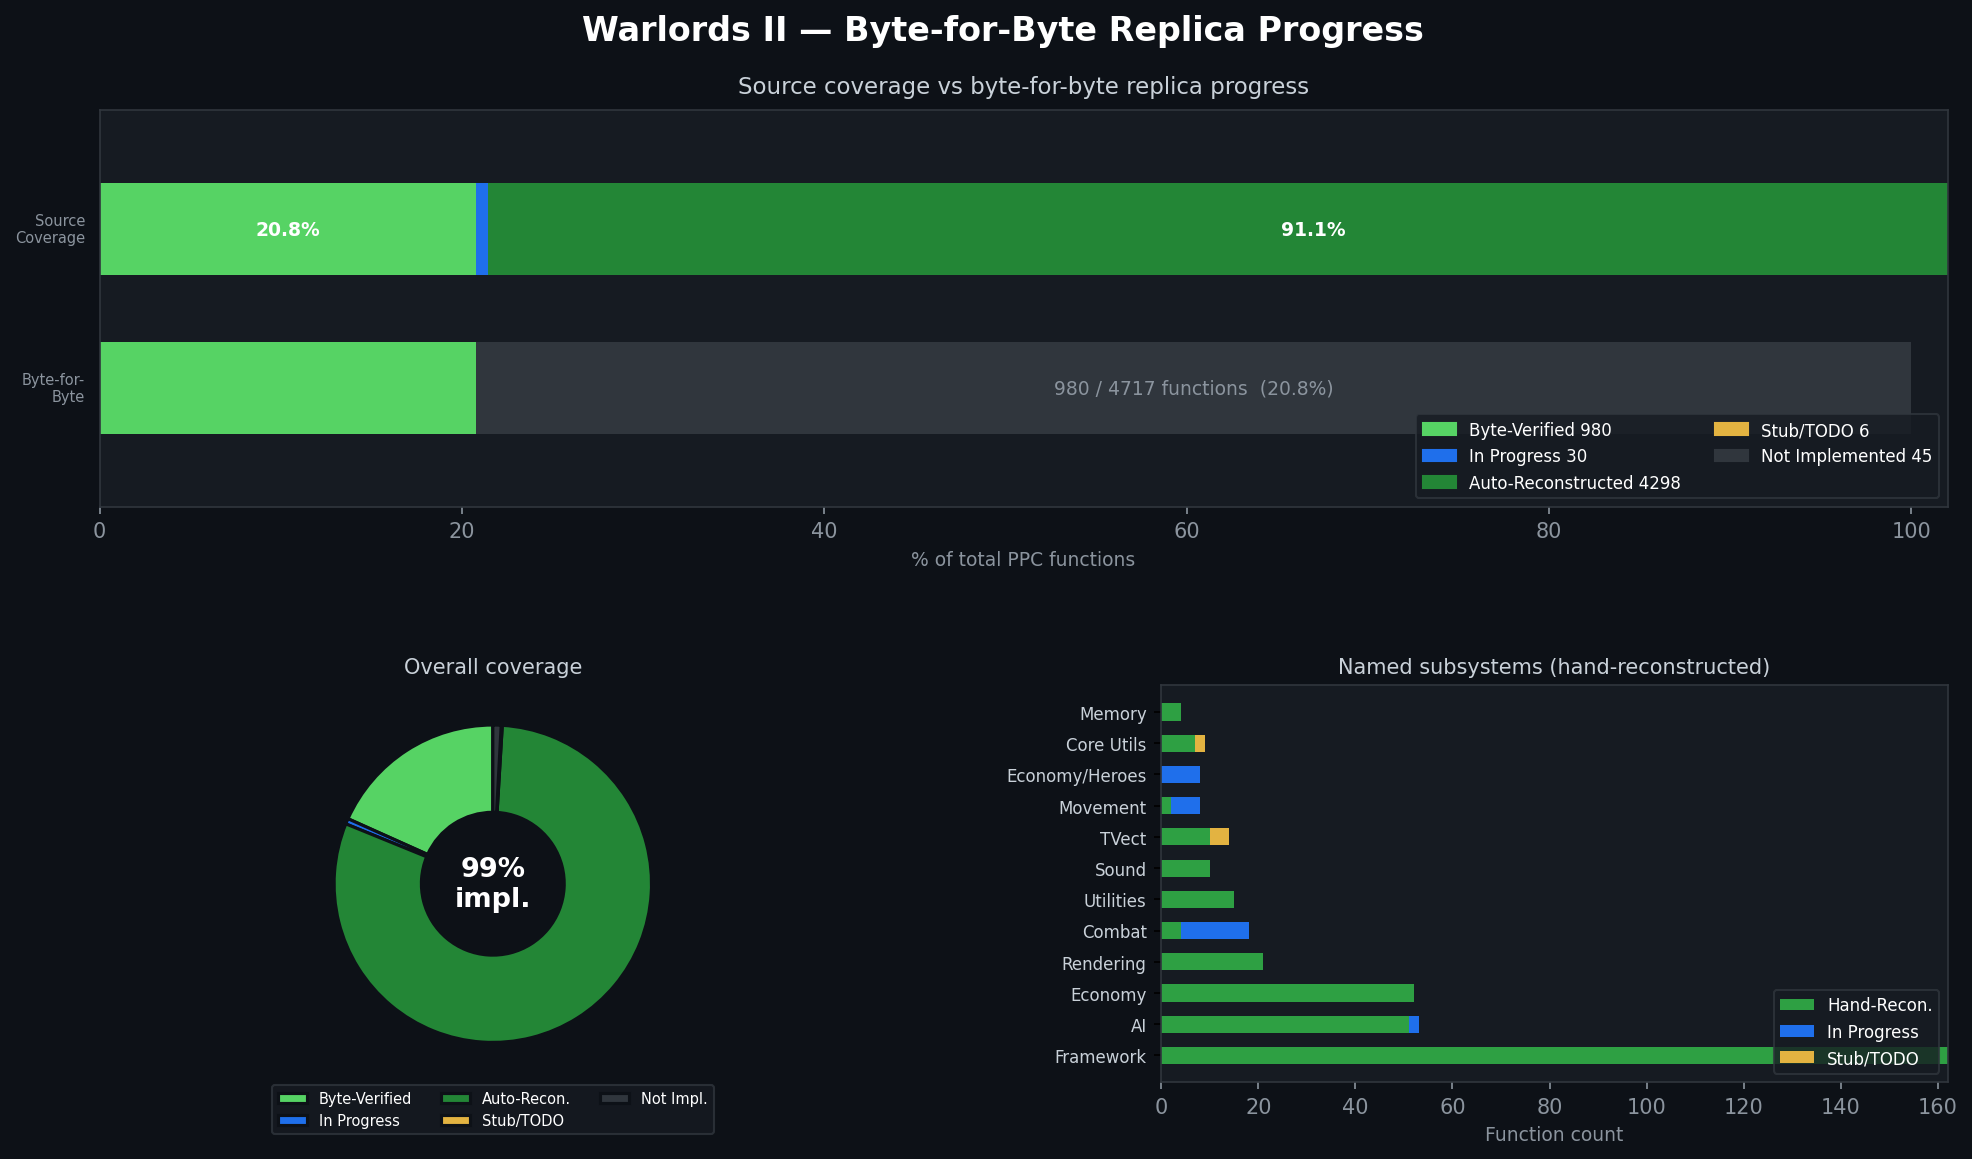
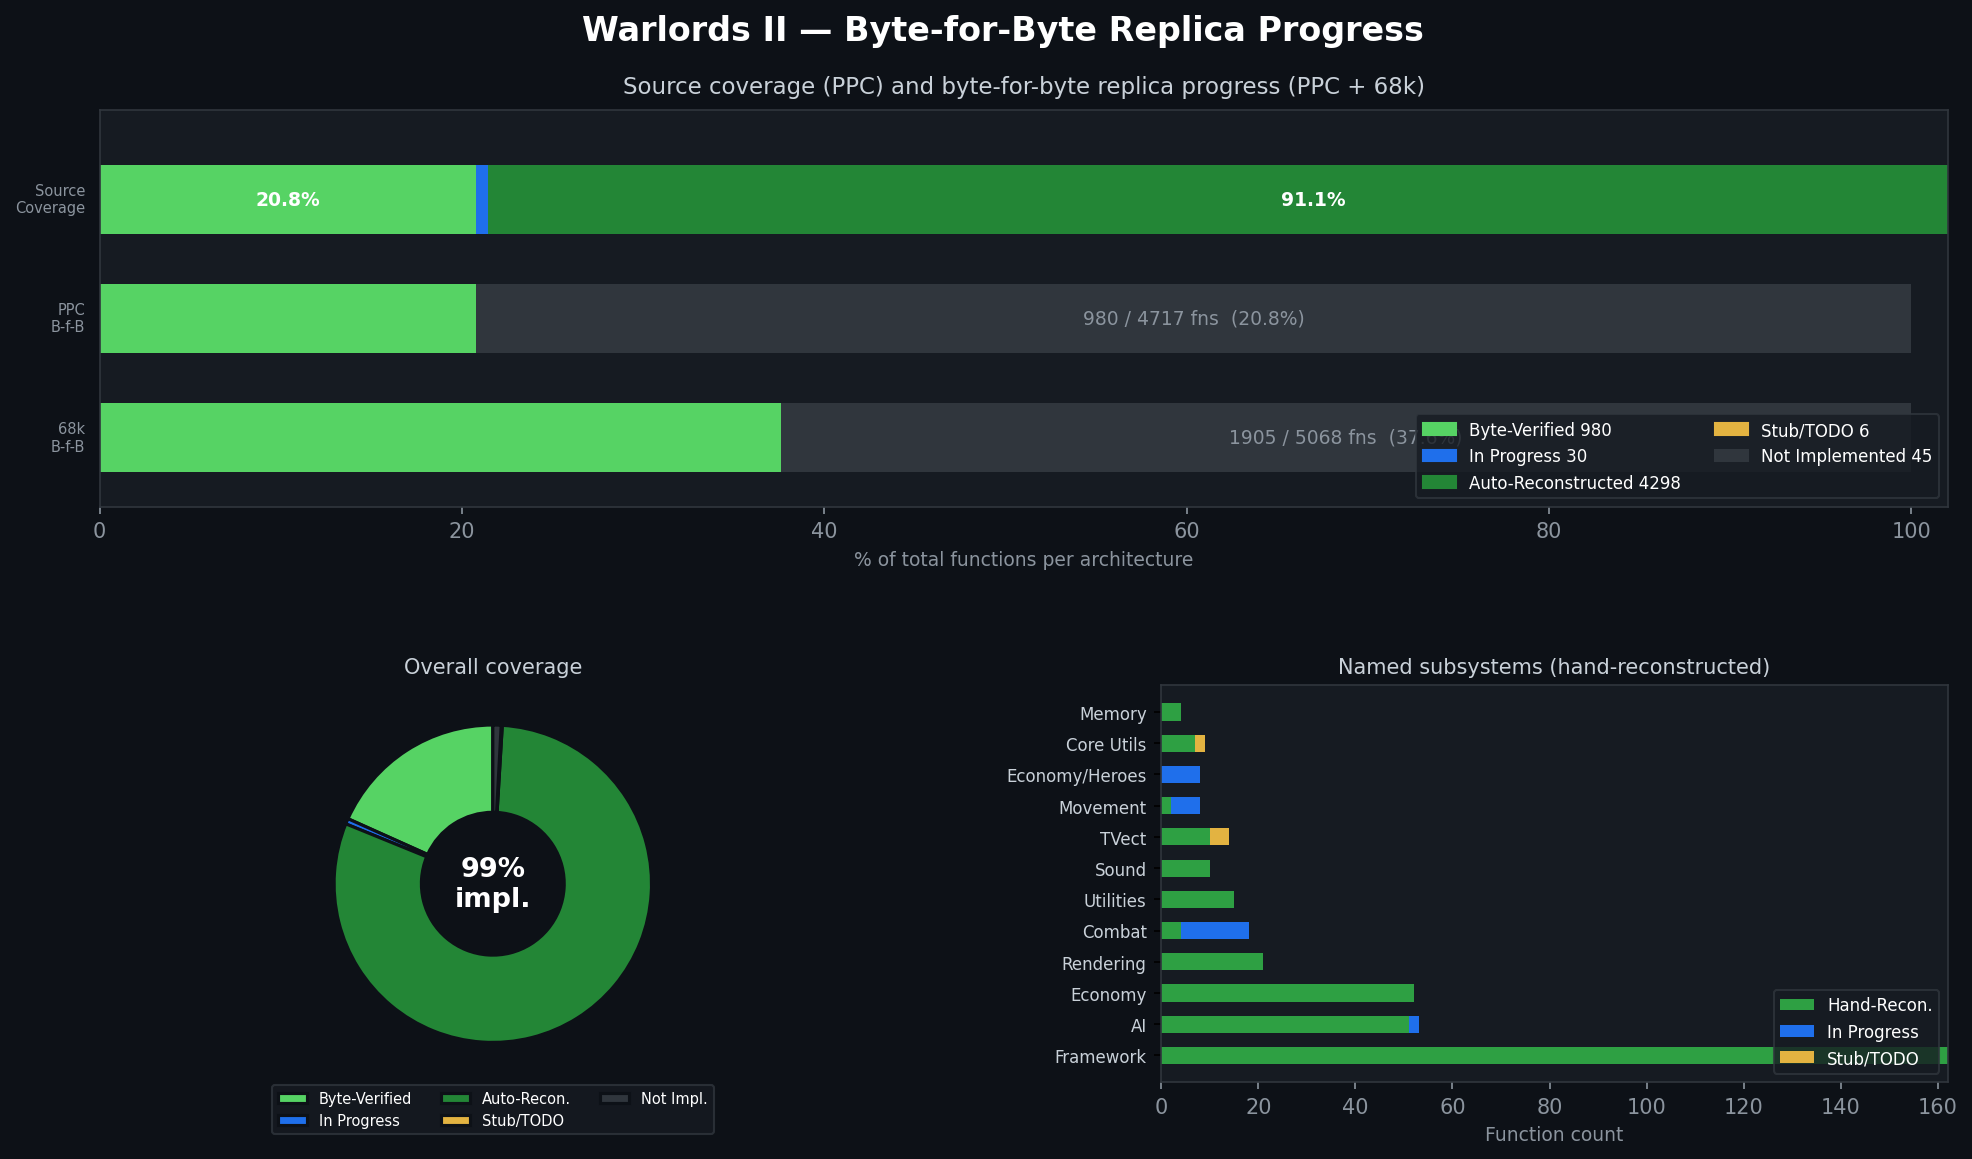
Document hard limits; add 68k B-f-B bar to progress chart
VERIFIED.md:
- Add concrete byte-level examples for each remaining hard limit:
  A) A-trap: show how a8d9 91c8 decodes as 4-byte EMAC 'msacw' in objdump
     vs correct 2-byte A-trap + separate subaw; explain the NOP-substitution fix
  B) Ghidra size over-count: detail both cases (FUN_C117 trailing zeros;
     FUN_C160 bleeding 4 bytes into next function)
  C) Full extension word: show original vs GAS byte diffs for the mode-bit mismatch
- Correct 68k total from ~18,000 (estimate) to 5,068 (actual from decompiled files)
  → 37.6% byte-verified (was ~10.6%)

gen_progress_chart.py:
- Count 68k functions from tools/68k_binary/decompiled/CODE_*.c
- Read tools/68k_verified_count.txt
- Add third bar at y=-0.9 showing 68k byte-for-byte progress
- Print 68k stats in console output

Changed region(s): [[0.0, 0.1242, 0.9899, 0.4349], [0.3093, 0.0621, 0.7115, 0.0932], [0.4331, 0.4659, 0.5877, 0.497]]

diff --git a/tools/gen_progress_chart.py b/tools/gen_progress_chart.py
@@ -17,12 +17,14 @@ import matplotlib.pyplot as plt
 import matplotlib.patches as mpatches
 import numpy as np
 
-REPO_ROOT      = os.path.dirname(os.path.dirname(os.path.abspath(__file__)))
-FUNCTION_MAP   = os.path.join(REPO_ROOT, "src", "FUNCTION_MAP.txt")
-PPC_DECOMPILED = os.path.join(REPO_ROOT, "tools", "ppc_decompiled")
-OUTPUT         = os.path.join(REPO_ROOT, "docs", "progress_chart.png")
+REPO_ROOT         = os.path.dirname(os.path.dirname(os.path.abspath(__file__)))
+FUNCTION_MAP      = os.path.join(REPO_ROOT, "src", "FUNCTION_MAP.txt")
+PPC_DECOMPILED    = os.path.join(REPO_ROOT, "tools", "ppc_decompiled")
+OUTPUT            = os.path.join(REPO_ROOT, "docs", "progress_chart.png")
 # Optional override file: one number on the first line = byte-verified count
-VERIFIED_FILE  = os.path.join(REPO_ROOT, "tools", "byte_verified_count.txt")
+VERIFIED_FILE     = os.path.join(REPO_ROOT, "tools", "byte_verified_count.txt")
+K68_VERIFIED_FILE = os.path.join(REPO_ROOT, "tools", "68k_verified_count.txt")
+K68_DEC_GLOB      = os.path.join(REPO_ROOT, "tools", "68k_binary", "decompiled", "CODE_*.c")
 
 # ── colours (GitHub dark/light friendly) ────────────────────────────────────
 C_VERIFIED = "#56d364"   # bright green  (byte-verified identical)
@@ -43,6 +45,18 @@ byte_verified = 0
 if os.path.exists(VERIFIED_FILE):
     try:
         byte_verified = int(open(VERIFIED_FILE).read().strip().splitlines()[0])
+    except (ValueError, IndexError):
+        pass
+
+# ── 1b. Count 68k functions and verified ─────────────────────────────────────
+total_68k = sum(
+    open(f).read().count("// Function:")
+    for f in glob.glob(K68_DEC_GLOB)
+)
+k68_verified = 0
+if os.path.exists(K68_VERIFIED_FILE):
+    try:
+        k68_verified = int(open(K68_VERIFIED_FILE).read().strip().splitlines()[0])
     except (ValueError, IndexError):
         pass
 
@@ -163,21 +177,34 @@ for pct, color, label in bar_data:
 ax_bar.text(-0.8, 0.3, "Source\nCoverage", ha="right", va="center",
             color="#8b949e", fontsize=7)
 
-# Row 1 (y=-0.3): byte-for-byte replica bar
+# Row 1 (y=-0.3): PPC byte-for-byte replica bar
 pct_bfb_remaining = 100 - pct_verified
 ax_bar.barh(-0.3, pct_verified,       left=0,            color=C_VERIFIED, height=0.35)
 ax_bar.barh(-0.3, pct_bfb_remaining,  left=pct_verified, color=C_MISSING,  height=0.35)
 _verified_str = f"{pct_verified:.2f}%" if pct_verified < 1 else f"{pct_verified:.1f}%"
 ax_bar.text(pct_verified + pct_bfb_remaining / 2, -0.3,
-            f"{byte_verified} / {total_ppc} functions  ({_verified_str})",
+            f"{byte_verified} / {total_ppc} fns  ({_verified_str})",
             ha="center", va="center", color="#8b949e", fontsize=9)
-ax_bar.text(-0.8, -0.3, "Byte-for-\nByte", ha="right", va="center",
+ax_bar.text(-0.8, -0.3, "PPC\nB-f-B", ha="right", va="center",
             color="#8b949e", fontsize=7)
 
+# Row 2 (y=-0.9): 68k byte-for-byte bar (separate binary, same source)
+if total_68k > 0:
+    pct_68k_verified  = k68_verified  / total_68k * 100
+    pct_68k_remaining = 100 - pct_68k_verified
+    ax_bar.barh(-0.9, pct_68k_verified,  left=0,               color=C_VERIFIED, height=0.35)
+    ax_bar.barh(-0.9, pct_68k_remaining, left=pct_68k_verified, color=C_MISSING,  height=0.35)
+    _68k_str = f"{pct_68k_verified:.2f}%" if pct_68k_verified < 1 else f"{pct_68k_verified:.1f}%"
+    ax_bar.text(pct_68k_verified + pct_68k_remaining / 2, -0.9,
+                f"{k68_verified} / {total_68k} fns  ({_68k_str})",
+                ha="center", va="center", color="#8b949e", fontsize=9)
+    ax_bar.text(-0.8, -0.9, "68k\nB-f-B", ha="right", va="center",
+                color="#8b949e", fontsize=7)
+
 ax_bar.set_xlim(0, 102)   # 2% right padding so the last bar segment isn't clipped
-ax_bar.set_ylim(-0.75, 0.75)
-ax_bar.set_xlabel("% of total PPC functions", color="#8b949e", fontsize=9)
-ax_bar.set_title("Source coverage vs byte-for-byte replica progress",
+ax_bar.set_ylim(-1.25, 0.75)
+ax_bar.set_xlabel("% of total functions per architecture", color="#8b949e", fontsize=9)
+ax_bar.set_title("Source coverage (PPC) and byte-for-byte replica progress (PPC + 68k)",
                  color="#c9d1d9", fontsize=11, pad=8)
 ax_bar.set_yticks([])
 ax_bar.tick_params(axis="x", colors="#8b949e")
@@ -245,3 +272,7 @@ print(f"  Stub/TODO              : {totals['STUB']+totals['TODO']} ({pct_stub:.1
 print(f"  Not Implemented        : {total_missing} ({pct_missing:.1f}%)")
 print(f"  Total Implemented      : {total_impl} ({pct_total_impl:.1f}%)")
 print(f"\nTo increment byte-verified count, update tools/byte_verified_count.txt")
+if total_68k > 0:
+    print(f"\n68k stats:")
+    print(f"  Total 68k functions    : {total_68k}")
+    print(f"  68k Byte-Verified      : {k68_verified} ({k68_verified/total_68k*100:.1f}%)")

diff --git a/VERIFIED.md b/VERIFIED.md
@@ -9,7 +9,7 @@ same machine code as the original binary.
 | Architecture | Verified | Total    | % |
 |---|---|---|---|
 | PPC (main binary) | 980 | 4,717 | 20.8% |
-| 68k (original Mac binary) | 1,905 | ~18,000 | ~10.6% |
+| 68k (original Mac binary) | 1,905 | 5,068 | 37.6% |
 
 The PPC and 68k binaries were compiled from the **same source code**, so the 68k
 verified list is also a behavioral ground-truth for PPC reconstruction.
@@ -140,32 +140,76 @@ After all eight encoding fixes, 10 functions remain unverified:
 Mac 68k programs call the Toolbox ROM via A-line trap instructions (`0xAxxx`,
 always 2 bytes). `m68k-elf-objdump` does not recognise these — it decodes
 `0xAxxx` opcodes as ColdFire/68040 EMAC instructions (4 bytes), producing wrong
-byte boundaries and invalid AT&T syntax that GAS rejects.
+byte boundaries and AT&T syntax that GAS rejects entirely (`got=` empty).
 
-**What would fix it**: pre-process the raw bytes before disassembly: replace each
-`0xAxxx` word at an instruction boundary with NOP (`0x4e71`), disassemble, then
-substitute the NOP back with `.word 0xAxxx` in the output. This preserves correct
-2-byte boundaries for all surrounding instructions.
+Concrete example from `FUN_C146_0000181c`:
+```
+Original bytes (CodeWarrior):
+  ...  a8d9            ; A-trap 0xa8d9 = _BlockMove (2 bytes)
+       91c8            ; subaw %a0,%a1           (2 bytes)
+       4e5e            ; unlk %fp                (2 bytes)
+
+objdump output (decodes as ColdFire EMAC):
+  e:   a8d9 91c8       msacw %a0u,%a1u,%a1@+,%a4  (4 bytes — WRONG BOUNDARY)
+  12:  4e5e            unlk %fp
+
+GAS result: Error: syntax error -- statement 'msacw ...' ignored → got=empty
+```
+
+The `msacw` (MAC unit, Motorola 68060/ColdFire) opcode space overlaps with Mac
+A-traps in `0xA000–0xAFFF`. All 6 affected functions produce `got=` because GAS
+rejects the EMAC mnemonics or their operand syntax.
+
+**What would fix it**: before passing raw bytes to `disassemble_to_instrs`,
+replace each `0xAxxx` word with `NOP` (`0x4e71`). NOP is also 2 bytes, so
+instruction boundaries for all surrounding code remain correct. After
+disassembly, replace `nop` at the patched offsets with `.word 0xAxxx`. GAS
+handles `.word 0xa8d9` as a literal halfword → correct bytes.
+
+Risk: if a non-opcode word (e.g., an immediate or extension word) coincidentally
+falls in `0xA000–0xAFFF`, the substitution misidentifies it. However, since
+verification checks bytes exactly, a false positive here merely produces a
+verification failure rather than a wrong entry in the verified list.
 
 **B) Ghidra function-size over-count (3 functions)**
 
 `FUN_C117_00002820`, `FUN_C160_00001fbc`, `FUN_C160_00001e1e`
 
 Ghidra's reported function size includes trailing bytes that are not instructions:
-- `FUN_C117_00002820`: 14-byte reported size, 6-byte actual code + 8 zero bytes
-- `FUN_C160_00001fbc`, `FUN_C160_00001e1e`: 84/88-byte sizes include the 4-byte
-  prefix `2f3c 8206` of the *next* function
 
-**What would fix it**: nothing tractable — Ghidra's static size analysis for these
-functions includes data bytes or bleeds into the next function.
+- `FUN_C117_00002820` (reported 14 B): only 6 bytes of real instructions
+  (`cmpal %a5@,%a0` / `orl %d7,%a0@-` / `lsrl #5,%d4`) followed by 8 zero
+  bytes. `objdump` prints `...` for those zeros. GAS produces 6 bytes; exp is
+  14 — unresolvable mismatch.
+
+- `FUN_C160_00001fbc` (reported 84 B, got 80 B) and `FUN_C160_00001e1e`
+  (reported 88 B, got 84 B): both have `exp` ending in `2f3c 8206`. That 4-byte
+  sequence is the first word-pair of a `movel #0x82060000,-(sp)` instruction
+  in the *following* function. Ghidra attributed it to this function, so the
+  assembled output is 4 bytes shorter than the expected slice.
+
+**What would fix it**: nothing tractable — Ghidra's static analysis included data
+or bled into the neighbouring function. Re-analysing in Ghidra with tighter
+function-end detection is the only real option.
 
 **C) 68020 full extension word (1 function)**
 
 `FUN_C010_000014a8`
 
-Contains `SUBA.L` with a 68020 full extension word (`@(base_disp)@(outer_disp)`
-AT&T syntax). The multi-displacement encoding is not correctly reproduced by GAS
-for this specific byte sequence.
+Contains `SUBAL` with a 68020 *full extension word* — the 68020 extended
+addressing mode that adds separate base and outer displacements. `objdump` shows
+these as `@(base_disp)@(outer_disp)` in AT&T syntax. GAS produces different
+bytes for this form than the original CodeWarrior output:
+
+```
+Original:  9d f2 93f2 9487 9984 8f83 8f83  (12 bytes for this instruction)
+GAS gets:  9d f0 01f3 0000 0000 0000 0000  (12 bytes, wrong extension words)
+```
+
+The high-byte difference `f2`→`f0` in the extension word changes the addressing
+mode bits, and the subsequent displacement words are wrong. This is likely a GAS
+encoding quirk for the specific combination of base-register suppression and
+outer-displacement size flags used here.
 
 ### 68k — 2,751 functions blocked by `bsr`/`jsr` calls
 
